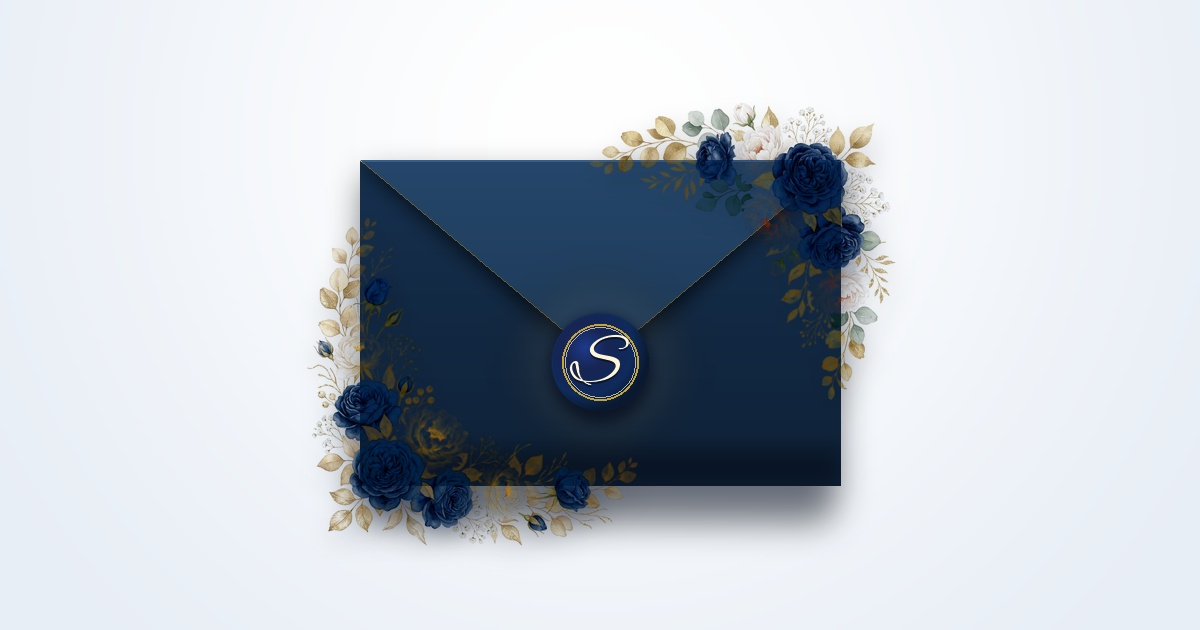
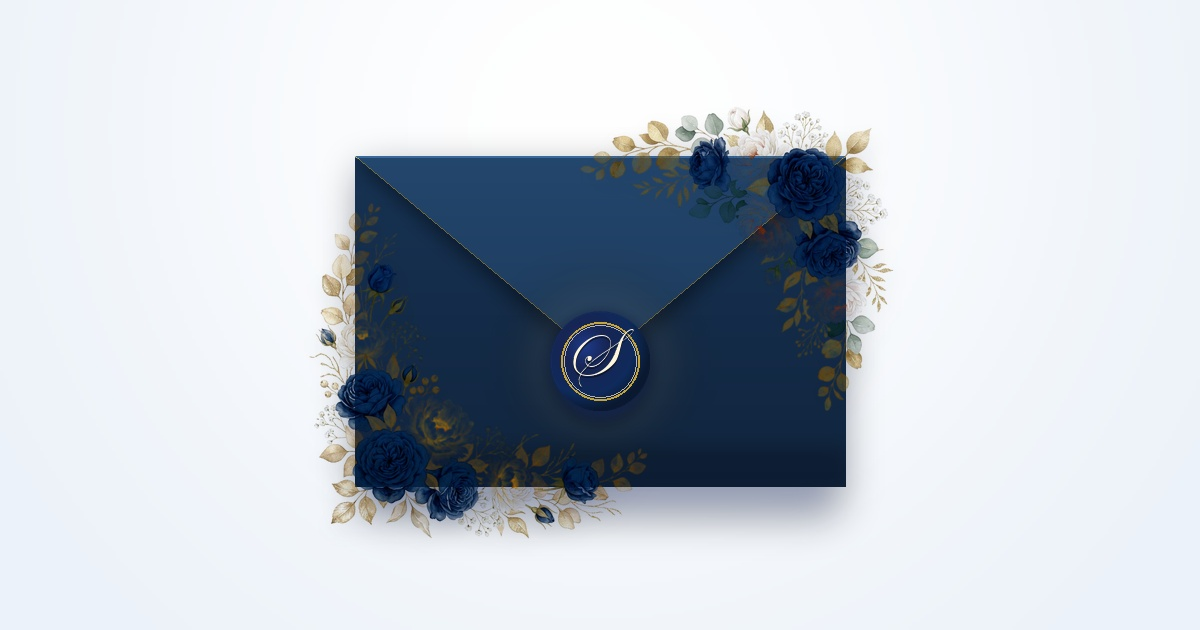
Restore bright luminous floral sprays and subtle drop shadows on closed envelope

Changed region(s): [[0.2467, 0.1508, 0.74, 0.8746], [0.4625, 0.5127, 0.555, 0.6635]]

diff --git a/gradtemplate/style.css b/gradtemplate/style.css
@@ -2373,7 +2373,7 @@ body.site-entered .luxury-envelope-container.is-opened .env-invitation-card {
   position: absolute;
   object-fit: contain;
   pointer-events: none;
-  filter: drop-shadow(0 10px 22px rgba(15, 30, 80, 0.22));
+  filter: drop-shadow(0 12px 24px rgba(15, 30, 80, 0.16)) brightness(1.04) contrast(1.02);
 }
 
 .flower-top-right {
